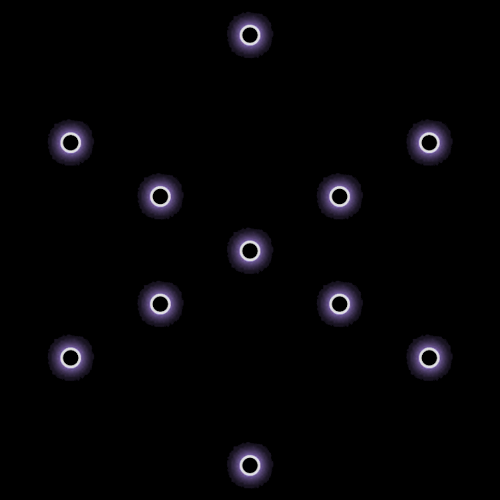
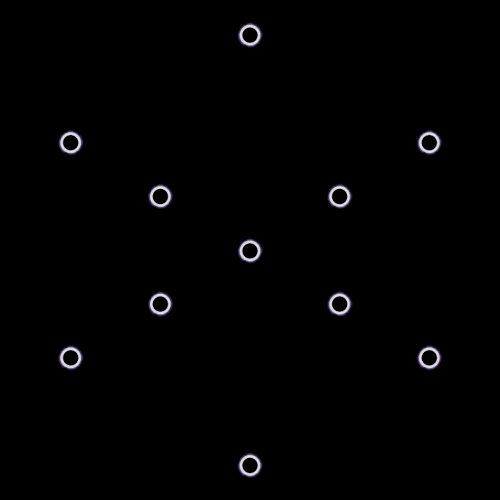
Arrange line style and bg

diff --git a/public/board.js b/public/board.js
@@ -60,24 +60,24 @@
       bg.endFill()
 
       for (var i = 0; i < matches.length; ++i, ++i) {
-        bg.lineStyle(8, 0xcab558).moveTo(
+        bg.lineStyle({width: 8, color: 0xcab558, cap: 'round'}).moveTo(
           matches[i][0], matches[i][1]).lineTo(matches[i + 1][0], matches[i + 1][1])
       }
 
       for (var i = 0; i < mask.length; ++i, ++i) {
-        bg.lineStyle(8, 0x6aac64).moveTo(
+        bg.lineStyle({width: 8, color: 0x6aac64, cap: 'round'}).moveTo(
           mask[i][0], mask[i][1]).lineTo(mask[i + 1][0], mask[i + 1][1])
       }
 
       if (points.length) {
-        bg.lineStyle(8, 0x8080ff).moveTo(points[0][0], points[0][1])
+        bg.lineStyle({width: 8, color: 0x8080ff, cap: 'round'}).moveTo(points[0][0], points[0][1])
         points.forEach(p => {
           bg.lineTo(p[0], p[1])
         })
       }
 
       for (var i = 0; i < fail.length; ++i, ++i) {
-        bg.lineStyle(8, 0xff0000).moveTo(
+        bg.lineStyle({width: 8, color: 0xff0000, cap: 'round'}).moveTo(
           fail[i][0], fail[i][1]).lineTo(fail[i + 1][0], fail[i + 1][1])
       }
     }
